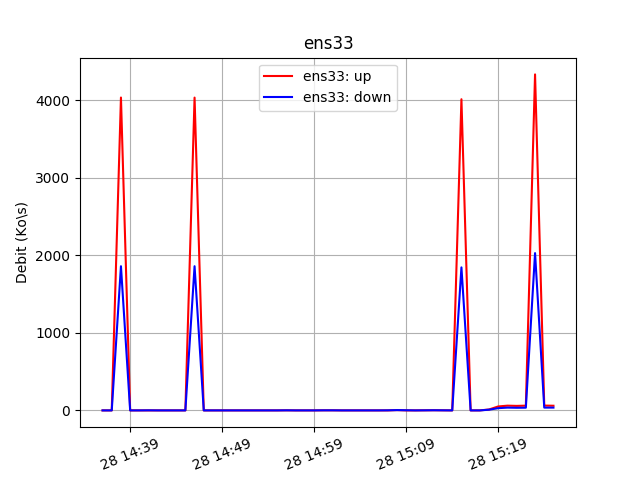
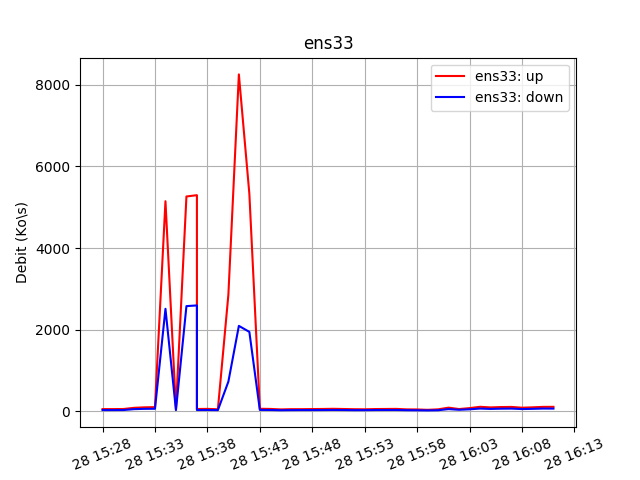
.

diff --git a/script/plot_net2h.py b/script/plot_net2h.py
@@ -1,0 +1,52 @@
+import matplotlib.pyplot as plt
+from datetime import datetime
+
+
+with open ("../var/net.2h") as f:
+  lines = f.readlines()
+time=[]
+valup=[]
+valdn=[]
+name = []
+fst = True
+for i in lines:
+  parse1=i.split('*')
+  time.append(parse1[0])
+  parse2=parse1[1].split("|")
+  
+  if fst:
+    for j in parse2:
+      parse3=j.split(';')
+      if parse3[0]!='\n':
+        name.append(parse3[0])
+        valup.append([])
+        valdn.append([])
+    fst = False
+  for j in parse2:
+    parse3=j.split(";")
+    for k in range(len(name)):
+      if name[k] == parse3[0]:
+        valup[k].append(parse3[1])
+        valdn[k].append(parse3[2])
+  
+
+for k in range (len(valdn)):
+  for i in range (len(valdn[k])):
+    valdn[k][i]=int(valdn[k][i])//1000
+for k in range (len(valup)):
+  for i in range (len(valup[k])):
+    valup[k][i]=int(valup[k][i])//1000
+for i in range (len(time)):
+  time[i]= datetime.strptime(time[i],'%A %d %B %Y %H:%M')
+  
+
+for k in range (len(name)):
+  plt.figure()
+  plt.title(name[k])
+  plt.plot_date(time, valdn[k],label=name[k]+": up",fmt="r-")
+  plt.plot_date(time,valup[k],label=name[k]+": down",fmt="b-")
+  plt.ylabel('Debit (Ko\s)')
+  plt.grid(True)
+  plt.xticks(rotation=22)
+  plt.legend()   
+  plt.savefig("../graph/net2h"+name[k]+".png")

diff --git a/script/plot_net6h.py b/script/plot_net6h.py
@@ -1,0 +1,52 @@
+import matplotlib.pyplot as plt
+from datetime import datetime
+
+
+with open ("../var/net.6h") as f:
+  lines = f.readlines()
+time=[]
+valup=[]
+valdn=[]
+name = []
+fst = True
+for i in lines:
+  parse1=i.split('*')
+  time.append(parse1[0])
+  parse2=parse1[1].split("|")
+  
+  if fst:
+    for j in parse2:
+      parse3=j.split(';')
+      if parse3[0]!='\n':
+        name.append(parse3[0])
+        valup.append([])
+        valdn.append([])
+    fst = False
+  for j in parse2:
+    parse3=j.split(";")
+    for k in range(len(name)):
+      if name[k] == parse3[0]:
+        valup[k].append(parse3[1])
+        valdn[k].append(parse3[2])
+  
+
+for k in range (len(valdn)):
+  for i in range (len(valdn[k])):
+    valdn[k][i]=int(valdn[k][i])//1000
+for k in range (len(valup)):
+  for i in range (len(valup[k])):
+    valup[k][i]=int(valup[k][i])//1000
+for i in range (len(time)):
+  time[i]= datetime.strptime(time[i],'%A %d %B %Y %H:%M')
+  
+
+for k in range (len(name)):
+  plt.figure()
+  plt.title(name[k])
+  plt.plot_date(time, valdn[k],label=name[k]+": up",fmt="r-")
+  plt.plot_date(time,valup[k],label=name[k]+": down",fmt="b-")
+  plt.ylabel('Debit (Ko\s)')
+  plt.grid(True)
+  plt.xticks(rotation=22)
+  plt.legend()   
+  plt.savefig("../graph/net6h"+name[k]+".png")

diff --git a/get/cron.py b/get/cron.py
@@ -6,16 +6,18 @@ while True:
 
   #Every Minutes
   os.system('python3.5 ~/monitor/get/net1m.py &')
-  print (time.strftime("%H:%M:%S"))
+  print (time.strftime("%H:%M:%S  -> ") + str(cpt))
   os.system('~/monitor/var/clean.sh &')
   os.system('python3.5 ~/monitor/script/plot_net30m.py &')
   
   #Every 4 min
   if cpt%4 == 0:
     os.system('python3.5 ~/monitor/get/net4m.py &')
+    os.system('python3.5 ~/monitor/script/plot_net2h.py &')
   #Every 12 min
   if cpt%12 == 0:
-    a=0
+    os.system('python3.5 ~/monitor/get/net12m.py &')
+    os.system('python3.5 ~/monitor/script/plot_net6h.py &')
   #Every 48 min
   if cpt%48 == 0:
     a=0

diff --git a/get/net12m.py b/get/net12m.py
@@ -1,10 +1,7 @@
 import time
-"""
-with open("../var/net.2h", "a") as f:
-    f.write(put)
-"""  
+
     
-with open ("../var/net.30m") as f:
+with open ("../var/net.2h") as f:
   lines = f.readlines()
 
 valup=[]
@@ -33,7 +30,7 @@ for i in lines[-4:]:
 prnt = ""
 prnt+=time.strftime("%A %d %B %Y %H:%M*")
 for i in range(len(name)):
-  prnt+=(name[i]+";"+str(valup[i]//4)+";"+str(valdn[i]//4)+"|")
+  prnt+=(name[i]+";"+str(valup[i]//4)+";"+str(valdn[i]/4)+"|")
 prnt+="\n"
-with open("../var/net.2h", "a") as f:
+with open("../var/net.6h", "a") as f:
     f.write(prnt)
